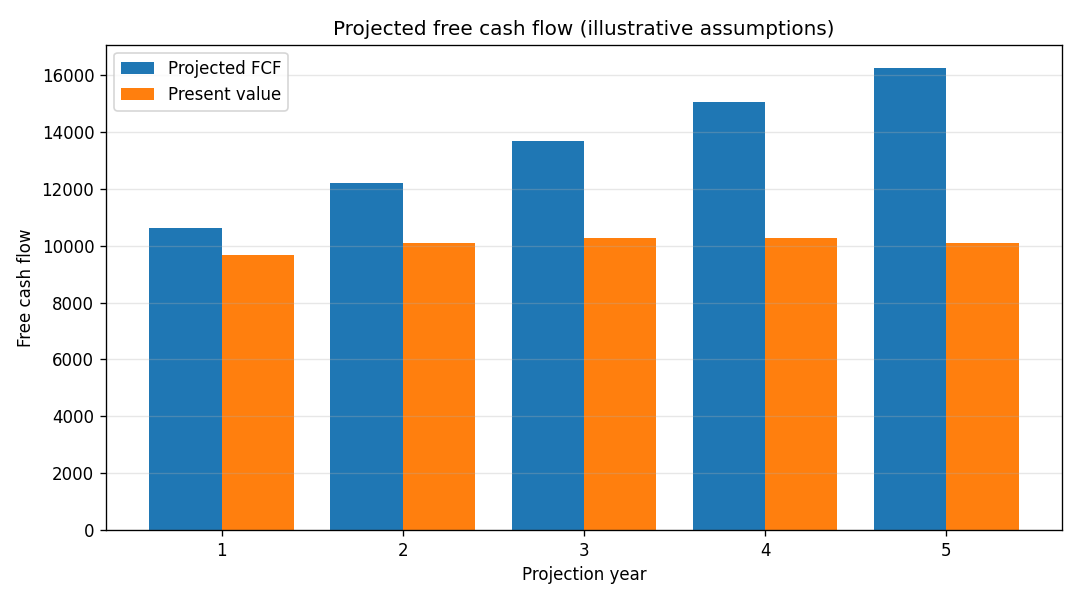
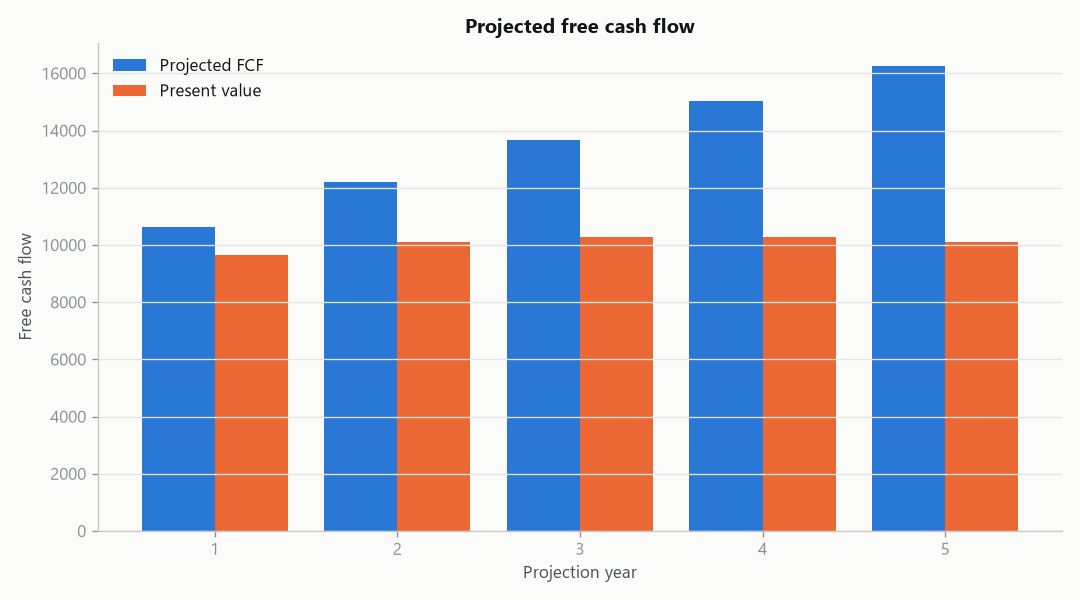
Fix missing pandas dependency; wire up dead current_price parameter
requirements.txt was missing pandas, which sensitivity.py imports, so a
fresh pip install -r requirements.txt followed by pytest failed at
collection with ModuleNotFoundError before a single test could run.

plot_sensitivity accepted a current_price parameter that the only call
site never passed, so the heatmap's color scale was an arbitrary
min/max of the grid rather than anything tied to the valuation question
being asked. Wired it through and centered a diverging colormap on it,
so the heatmap now directly shows which assumption combinations imply
upside (blue) versus downside (red) against today's price, consistent
with the model's own recommendation line rather than an unrelated scale.

Verified end to end after both fixes: pytest (13/13) and a live run of
value_company.py both pass. Also applied viz_style.py, matching the
other quant-finance repos.

diff --git a/src/valuation/plotting.py b/src/valuation/plotting.py
@@ -9,41 +9,67 @@ from pathlib import Path
 
 import matplotlib.pyplot as plt
 import numpy as np
+from matplotlib.colors import TwoSlopeNorm
+
+from . import viz_style
 
 
 def plot_fcf(dcf_result, title="Projected free cash flow"):
     """Projected FCF bars with their present values overlaid."""
+    viz_style.apply()
     n = len(dcf_result.projected_fcf)
     x = np.arange(1, n + 1)
     fig, ax = plt.subplots(figsize=(9, 5))
-    ax.bar(x - 0.2, dcf_result.projected_fcf, width=0.4, label="Projected FCF", color="tab:blue")
-    ax.bar(x + 0.2, dcf_result.pv_fcf, width=0.4, label="Present value", color="tab:orange")
+    ax.bar(x - 0.2, dcf_result.projected_fcf, width=0.4,
+          label="Projected FCF", color=viz_style.BLUE)
+    ax.bar(x + 0.2, dcf_result.pv_fcf, width=0.4,
+          label="Present value", color=viz_style.ORANGE)
     ax.set_xticks(x)
     ax.set_xlabel("Projection year")
     ax.set_ylabel("Free cash flow")
     ax.set_title(title)
     ax.legend()
-    ax.grid(True, axis="y", alpha=0.3)
+    ax.grid(axis="x", visible=False)
     fig.tight_layout()
     return fig
 
 
 def plot_sensitivity(grid, current_price=None, title="DCF sensitivity: WACC vs terminal growth"):
-    """Heatmap of per-share value across WACC (rows) and terminal growth (cols)."""
+    """Heatmap of per-share value across WACC (rows) and terminal growth (cols).
+
+    When the current market price is known, the colormap is centered on it:
+    cells above price shade toward blue (implied upside), cells below shade
+    toward red (implied downside), so the heatmap directly answers "is this
+    combination of assumptions bullish or bearish versus today," not just
+    "which cell is numerically bigger."
+    """
+    viz_style.apply()
     fig, ax = plt.subplots(figsize=(9, 6))
     data = grid.to_numpy(dtype=float)
-    im = ax.imshow(data, cmap="RdYlGn", aspect="auto")
+    if current_price is not None and np.isfinite(current_price):
+        finite = data[np.isfinite(data)]
+        span = max(finite.max() - current_price, current_price - finite.min(), 1e-9)
+        norm = TwoSlopeNorm(vmin=current_price - span, vcenter=current_price,
+                            vmax=current_price + span)
+        im = ax.imshow(data, cmap=viz_style.diverging_cmap(), norm=norm, aspect="auto")
+    else:
+        im = ax.imshow(data, cmap=viz_style.diverging_cmap(), aspect="auto")
     ax.set_xticks(range(len(grid.columns)))
     ax.set_xticklabels(grid.columns)
     ax.set_yticks(range(len(grid.index)))
     ax.set_yticklabels(grid.index)
     ax.set_xlabel("Terminal growth")
     ax.set_ylabel("WACC")
+    ax.grid(visible=False)
     for i in range(data.shape[0]):
         for j in range(data.shape[1]):
             if not np.isnan(data[i, j]):
-                ax.text(j, i, f"{data[i, j]:.0f}", ha="center", va="center", fontsize=8)
-    fig.colorbar(im, ax=ax, label="Intrinsic value per share")
+                ax.text(j, i, f"{data[i, j]:.0f}", ha="center", va="center",
+                        fontsize=8, color=viz_style.INK)
+    label = "Intrinsic value per share"
+    if current_price is not None:
+        label += f" (center = current price {current_price:.0f})"
+    fig.colorbar(im, ax=ax, label=label)
     ax.set_title(title)
     fig.tight_layout()
     return fig
@@ -51,22 +77,24 @@ def plot_sensitivity(grid, current_price=None, title="DCF sensitivity: WACC vs t
 
 def plot_football_field(valuation, title="Valuation range vs current price"):
     """Per-share estimate from each method, with the current price marked."""
+    viz_style.apply()
     methods = list(valuation.per_share_estimates.keys())
     values = list(valuation.per_share_estimates.values())
     y = np.arange(len(methods))
 
     fig, ax = plt.subplots(figsize=(9, 5))
-    ax.barh(y, values, color="tab:blue", alpha=0.7)
-    ax.axvline(valuation.current_price, color="tab:red", linewidth=2,
+    ax.barh(y, values, color=viz_style.BLUE, alpha=0.8, height=0.55)
+    ax.axvline(valuation.current_price, color=viz_style.RED, linewidth=2,
                label=f"Current price ({valuation.current_price:.0f})")
-    ax.axvline(valuation.central_estimate, color="black", linestyle="--",
+    ax.axvline(valuation.central_estimate, color=viz_style.INK, linestyle="--",
+               linewidth=1.6,
                label=f"Central estimate ({valuation.central_estimate:.0f})")
     ax.set_yticks(y)
     ax.set_yticklabels(methods)
     ax.set_xlabel("Value per share")
     ax.set_title(title)
     ax.legend()
-    ax.grid(True, axis="x", alpha=0.3)
+    ax.grid(axis="y", visible=False)
     fig.tight_layout()
     return fig
 

diff --git a/src/valuation/viz_style.py b/src/valuation/viz_style.py
@@ -1,0 +1,53 @@
+"""Shared chart style: a validated categorical palette on a clean light
+surface, styled for a quant/analytics register rather than matplotlib
+defaults."""
+
+from __future__ import annotations
+
+import matplotlib as mpl
+from matplotlib.colors import LinearSegmentedColormap
+
+SURFACE = "#fbfbfa"
+INK = "#111318"
+INK_2 = "#4b4f58"
+MUTED = "#8b8f98"
+GRID = "#e4e4e2"
+BASELINE = "#c7c7c4"
+
+# Fixed-order categorical set (validated: adjacent-pair CVD dE >= 8, normal
+# vision floor >= 15 on this surface). Never cycle past what's needed.
+SERIES = ["#2a78d6", "#eb6834", "#1baf7a", "#4a3aa7", "#e34948", "#eda100"]
+BLUE, ORANGE, AQUA, VIOLET, RED, YELLOW = SERIES
+
+DIVERGE_NEG, DIVERGE_MID, DIVERGE_POS = "#e34948", "#f0efec", "#2a78d6"
+
+
+def apply() -> None:
+    mpl.rcParams.update({
+        "figure.facecolor": SURFACE,
+        "axes.facecolor": SURFACE,
+        "savefig.facecolor": SURFACE,
+        "axes.edgecolor": BASELINE,
+        "axes.labelcolor": INK_2,
+        "axes.titlecolor": INK,
+        "axes.titleweight": "bold",
+        "axes.titlesize": 12,
+        "axes.grid": True,
+        "grid.color": GRID,
+        "grid.linewidth": 0.8,
+        "axes.spines.top": False,
+        "axes.spines.right": False,
+        "xtick.color": MUTED,
+        "ytick.color": MUTED,
+        "text.color": INK,
+        "font.family": "sans-serif",
+        "font.sans-serif": ["Segoe UI", "Arial", "sans-serif"],
+        "lines.linewidth": 2,
+        "legend.frameon": False,
+        "figure.dpi": 120,
+    })
+
+
+def diverging_cmap():
+    return LinearSegmentedColormap.from_list(
+        "diverge", [DIVERGE_NEG, DIVERGE_MID, DIVERGE_POS])

diff --git a/scripts/value_company.py b/scripts/value_company.py
@@ -75,7 +75,7 @@ def main() -> None:
             terminal_growth_range=np.round(np.linspace(tg_c - 0.01, tg_c + 0.01, 5), 4),
         )
         f1 = plotting.plot_fcf(dcf)
-        f2 = plotting.plot_sensitivity(grid)
+        f2 = plotting.plot_sensitivity(grid, current_price=val.current_price)
         f3 = plotting.plot_football_field(val)
         for fig, name in [(f1, "fcf"), (f2, "sensitivity"), (f3, "football_field")]:
             out = plotting.save_figure(fig, f"results/{name}.png")
